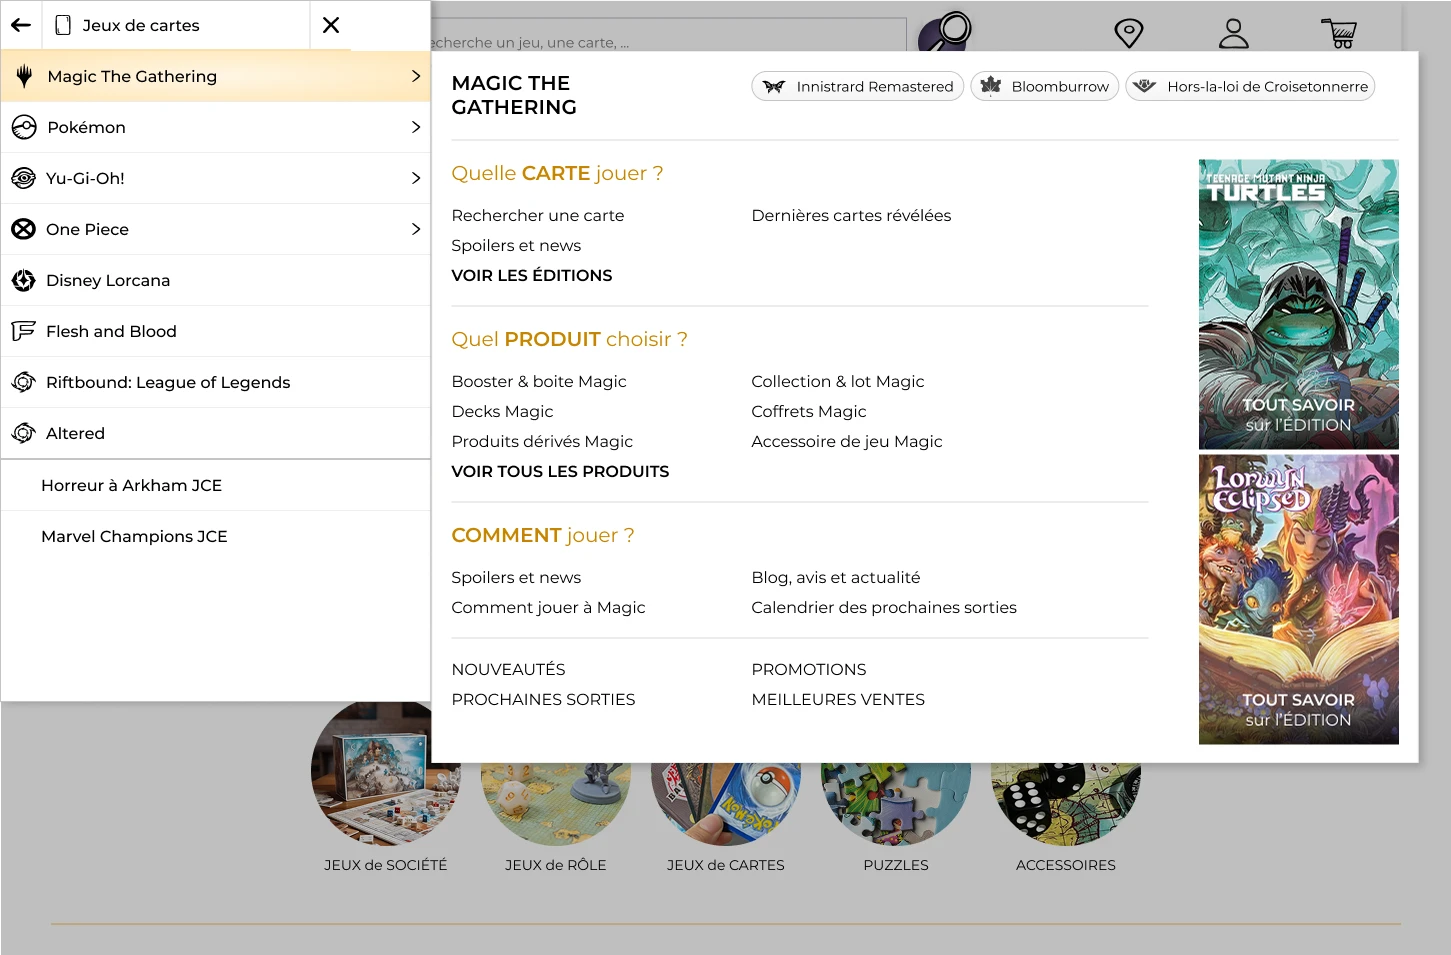
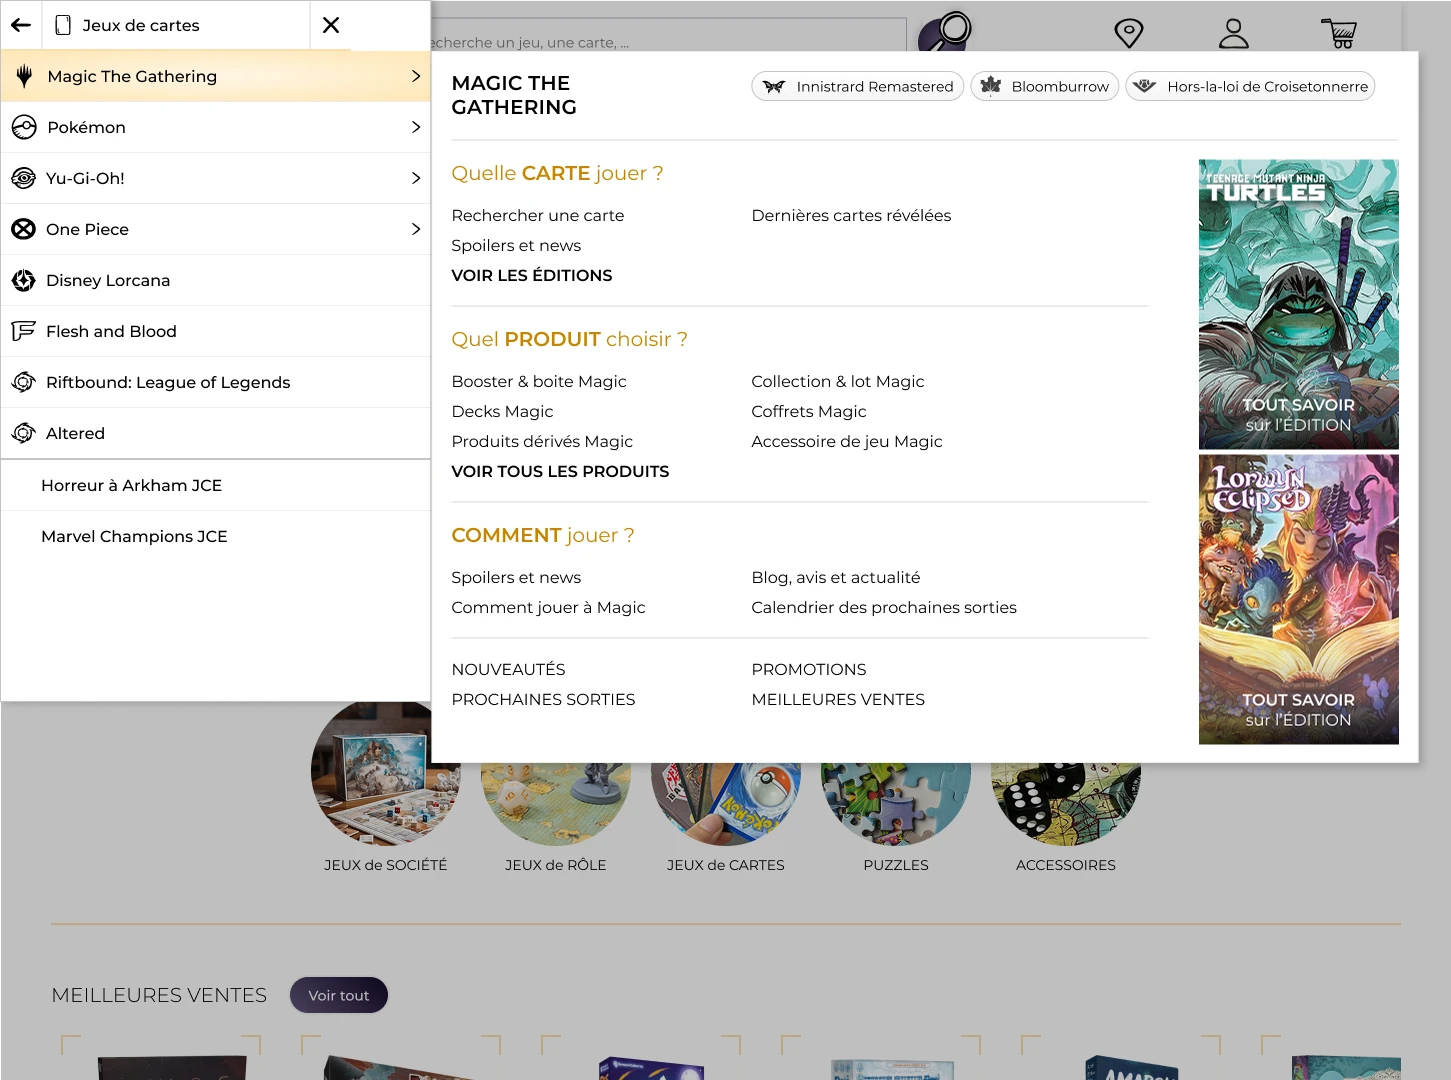
E-commerce : uniquement le menu d'une gamme
Claude-Session: https://claude.ai/code/session_01THwdntjNiSuDEHoKbgxniL

diff --git a/projets/refonte-site-e-commerce-play-in/index.html b/projets/refonte-site-e-commerce-play-in/index.html
@@ -272,11 +272,8 @@
             <div class="st-wf__pair"><div class="st-wf__col"><span class="st-wf__label">Desktop</span><div class="st-wf__desk st-scroll" tabindex="0" role="region" aria-label="Panier desktop, défilable"><img src="../../assets/img/play-in-ecommerce/ui/panier-d.webp" alt="Panier desktop : articles, quantités, récapitulatif et produits mis de côté" width="1450" height="2063" loading="lazy"></div></div><div class="st-wf__col"><span class="st-wf__label">Mobile</span><div class="st-wf__mob st-scroll" tabindex="0" role="region" aria-label="Panier mobile, défilable"><img src="../../assets/img/play-in-ecommerce/ui/panier-m.webp" alt="Panier en version mobile" width="500" height="2063" loading="lazy"></div></div></div>
           </figure>
           <figure class="st-wf">
-            <figcaption><span class="st-wf__num">05</span><strong>Menu</strong>Du menu principal au sous-menu d’une gamme : cartes, produits et guides en deux clics</figcaption>
-            <div class="st-wf__stack">
-              <div class="st-wf__col"><span class="st-wf__label">1. Menu principal</span><div class="st-wf__img"><img src="../../assets/img/play-in-ecommerce/ui/menu-d.webp" alt="Menu principal ouvert : gammes de produits, sélections et services" width="1200" height="1070" loading="lazy"></div></div>
-              <div class="st-wf__col"><span class="st-wf__label">2. Menu d’une gamme</span><div class="st-wf__img"><img src="../../assets/img/play-in-ecommerce/ui/menu-magic-d.webp" alt="Sous-menu Magic The Gathering : recherche de cartes, produits et guides de jeu" width="1451" height="955" loading="lazy"></div></div>
-            </div>
+            <figcaption><span class="st-wf__num">05</span><strong>Menu d’une gamme</strong>Cartes, produits et guides de jeu regroupés par univers</figcaption>
+            <div class="st-wf__col"><span class="st-wf__label">Desktop</span><div class="st-wf__img"><img class="st-match-scroll" src="../../assets/img/play-in-ecommerce/ui/menu-magic-d.webp" alt="Sous-menu Magic The Gathering : recherche de cartes, produits et guides de jeu" width="1451" height="1080" loading="lazy"></div></div>
           </figure>
           <figure class="st-wf">
             <figcaption><span class="st-wf__num">06</span><strong>Connexion</strong>Se connecter ou créer un compte sans quitter la page</figcaption>
